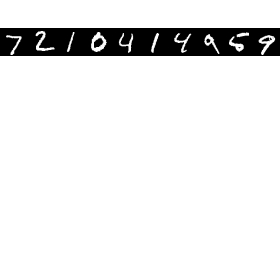
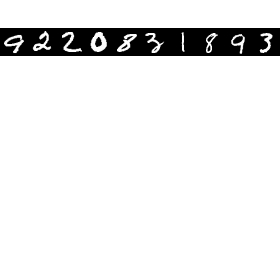
colabコード追加

diff --git a/ch05/colab.py b/ch05/colab.py
@@ -1,0 +1,99 @@
+#========= (誤差逆伝播を使った)学習=============(5.7.4)
+#２層ニューラルネットワークのクラス
+import sys
+sys.path.append('../')
+import numpy as np
+import matplotlib.pyplot as plt
+from dataset.mnist import load_mnist
+from two_layers_net import TwoLayerNet
+from PIL import Image #画像表示にはPILモジュールを使う。
+# ================== ミニバッチ学習の実装 ==================
+(x_train, t_train), (x_test, t_test) = load_mnist(normalize=True, one_hot_label=True)
+#=======================================================
+# ================== ディープラーニングのモデルを定義 ==================
+network = TwoLayerNet(input_size=784, hidden_size=10, output_size=10) #NNのインスタンス生成
+# =======================================================
+#====== ハイパーパラメータ ======
+iters_num = 10000 #勾配によるパラメータ更新回数(iterarion = 繰り返し)
+train_size = x_train.shape[0] #訓練データのサイズはx_trainデータ形状の0次元の数 = 60000枚　x_train.shape = 60000枚 * 784(28*28)ピクセル
+batch_size = 1000 #60000枚のうち100枚ごと学習を行う
+learning_rate = 0.1 #学習率
+train_loss_list = [] #学習ごとの損失関数を格納するためのリスト
+train_acc_list = [] #学習における正確率
+test_acc_list = [] #テストにおける正確率
+#============================
+iter_per_epoch = max(train_size / batch_size, 1) #1エポックあたりの繰り返し数　エポック=訓練データをすべて使い切った回数。60000/100枚 回勾配を行った = １エポック学習を行った。
+# 学習フェーズ
+print("学習開始")
+#何枚の画像で学習したか(画像のシェイプも)
+#開始時間取得
+for i in range (iters_num): #10000回繰り返し
+    #===== ミニバッチの取得 =====
+    batch_mask = np.random.choice(train_size, batch_size) #train_size枚の中からbatch_size枚ランダムで配列で取り出す
+    x_batch = x_train[batch_mask] #100個の入力画像
+    t_batch = t_train[batch_mask] #100個の入力画像に対する正解データ
+    #====== 勾配計算 =====
+    #数値微分
+    # grad = network.numerical_gradient(x_batch, t_batch)
+    #誤差逆伝播法　高速！ 
+    grad = network.gradient(x_batch, t_batch)
+    #====== パラメータ更新 ======
+    # for key in ('W1', 'b1', 'W2', 'b2'):
+    for key in ('W1', 'b1'):
+        network.params[key] -= learning_rate * grad[key]
+    #====== 学習経過の記録 ========
+    # loss = network.loss(x_batch, t_batch)
+    # train_loss_list.append(loss)
+#終了時間取得
+#print(終了ー開始)
+#1エポックごとにテストデータで認識精度を計算　計算に時間がかかるのでざっくりと。
+# if i % iter_per_epoch == 0:
+print("テスト開始")
+#開始時間取得
+test_size = x_test.shape[0]
+batch_mask = np.random.choice(test_size, 10) #train_size枚の中からbatch_size枚ランダムで配列で取り出す
+x_test = x_test[batch_mask] #100個の入力画像
+t_test = t_test[batch_mask] #100個の入力画像に対する正解データ
+test_acc = network.accuracy(x_test, t_test)
+test_acc_list.append(test_acc)
+#終了時間取得
+#print(終了ー開始)
+print("test acc: "+ str(test_acc))
+#============================================
+def ConvertToImg(img):
+    return Image.fromarray(np.uint8(img))
+# MNIST一文字の幅
+chr_w = 28
+# MNIST一文字の高さ
+chr_h = 28
+# 表示する文字数
+num = 20
+# MNISTの文字をPILで１枚の画像に描画する
+canvas = Image.new('RGB', (int(chr_w * num/2), int(chr_h * num/2)), (255, 255, 255))
+# MNISTの文字を読み込んで描画
+i = 0
+(x_train, t_train), (x_test, t_test) = \
+  load_mnist(flatten=True, normalize=False)
+# for x in range( int(num/2) ):
+#     chrImg = ConvertToImg(x_test[i].reshape(chr_w, chr_h))
+#     canvas.paste(chrImg, (chr_w*x, chr_h))
+#     i = i + 1
+for item in batch_mask:
+    chrImg = ConvertToImg(x_test[item].reshape(chr_w, chr_h))
+    canvas.paste(chrImg, (chr_w*i, chr_h))
+    i = i + 1
+canvas.show()
+# 表示した画像をJPEGとして保存
+canvas.save('mnist.jpg', 'JPEG', quality=100, optimize=True)
+print(network.params['W1'].shape)
+for num in range(10):
+  a = []
+  for i in range(784):
+    a.append(network.params['W1'][i][num])
+  #画像の表示
+  a = np.reshape(a, (28, 28)) 
+  plt.imshow(a)
+  plt.show() #使った画像が小さいときはボケて見えるけど今は気にしないで
+  plt.gray()
+  #画像の保存
+  plt.imsave('w1_'+str(num)+'.jpeg', a) #拡張子を.pngとかに変えてもちゃんと保存してくれる。

diff --git a/ch05/test.py b/ch05/test.py
@@ -70,43 +70,57 @@ for i in range (iters_num): #10000回繰り返し
 #1エポックごとにテストデータで認識精度を計算　計算に時間がかかるのでざっくりと。
 # if i % iter_per_epoch == 0:
 print("====== テスト開始 ======")
-#開始時間取得
-test_size = x_test.shape[0]
-batch_mask = np.random.choice(test_size, 10) 
-print("batch_mask",batch_mask)
-#train_size枚の中からbatch_size枚ランダムで配列で取り出す
-x_test = x_test[batch_mask] #100個の入力画像
-t_test = t_test[batch_mask] #100個の入力画像に対する正解データ
-test_acc = network.accuracy(x_test, t_test)
+# #開始時間取得
+#================ 複数枚まとめてテストしたいとき(画像表示の仕方も変更する) ===========
+# test_size = x_test.shape[0]
+# batch_mask = np.random.choice(test_size, 10) #何枚でテストを行いたいか
+# print("batch_mask",batch_mask)
+# #train_size枚の中からbatch_size枚ランダムで配列で取り出す
+# x_test = x_test[batch_mask] #100個の入力画像
+# t_test = t_test[batch_mask] #100個の入力画像に対する正解データ
+# test_acc = network.accuracy(x_test, t_test)
 # test_acc_list.append(test_acc)
+# print(test_acc_list)
+
+
+#============== １枚テストデータを指定してテストしたいとき ===========
+x_test = x_test[[4]] 
+t_test = t_test[[4]] 
+test_acc = network.accuracy(x_test, t_test)
 #終了時間取得
 #print(終了ー開始)
+
+# ===========テスト時の精度 ============
 print("test acc: "+ str(test_acc))
 
 
 #============================================
 
-def ConvertToImg(img):
-    return Image.fromarray(np.uint8(img))
-# MNIST一文字の幅
-chr_w = 28
-# MNIST一文字の高さ
-chr_h = 28
-# 表示する文字数
-num = 20
-# MNISTの文字をPILで１枚の画像に描画する
-canvas = Image.new('RGB', (int(chr_w * num/2), int(chr_h * num/2)), (255, 255, 255))
-# MNISTの文字を読み込んで描画
-i = 0
-(x_train, t_train), (x_test, t_test) = \
-    load_mnist(flatten=True, normalize=False)
+# def ConvertToImg(img):
+#     return Image.fromarray(np.uint8(img))
+# # MNIST一文字の幅
+# chr_w = 28
+# # MNIST一文字の高さ
+# chr_h = 28
+# # 表示する文字数
+# num = 20
+# # MNISTの文字をPILで１枚の画像に描画する
+# canvas = Image.new('RGB', (int(chr_w * num/2), int(chr_h * num/2)), (255, 255, 255))
+# # MNISTの文字を読み込んで描画
+# i = 0
+# #======== 画像表示のために一旦unnormalizedデータを読み込む。(もっといい方法ありますかね) ==========
+# (x_train, t_train), (x_test, t_test) = \
+#     load_mnist(flatten=True, normalize=False)
+# #============ 一枚の画像を出したいとき ===========
+# chrImg = ConvertToImg(x_test[0].reshape(chr_w, chr_h))
+# canvas.paste(chrImg, (chr_w*i, chr_h))
+# #============ 複数ででテストする際の画像表示 ==============
+# # for item in batch_mask:
+# #     chrImg = ConvertToImg(x_test[item].reshape(chr_w, chr_h))
+# #     canvas.paste(chrImg, (chr_w*i, chr_h))
+# #     i = i + 1
 
-for item in batch_mask:
-    chrImg = ConvertToImg(x_test[item].reshape(chr_w, chr_h))
-    canvas.paste(chrImg, (chr_w*i, chr_h))
-    i = i + 1
-
-canvas.show()
+# canvas.show()
 # 表示した画像をJPEGとして保存
 # canvas.save('mnist.jpg', 'JPEG', quality=100, optimize=True)
 

diff --git a/ch03/mnist_image_show.py b/ch03/mnist_image_show.py
@@ -13,12 +13,12 @@ import numpy as np
   （one_hot_label:ラベルをone_hot表現で格納するかどうか。one_hot表現＝正解ラベル１，それ以外０）
 """
 #データの形状
-print("x_train.shape", x_train.shape) #訓練データの入力データ
-print("t_train.shape", x_train.shape) #訓練データの正解データ
-print("x_test.shape", x_test.shape) #テストデータの入力データ
-print("t_test.shape", t_test.shape) #テストデータの正解データ
+# print("x_train.shape", x_train.shape) #訓練データの入力データ
+# print("t_train.shape", x_train.shape) #訓練データの正解データ
+# print("x_test.shape", x_test.shape) #テストデータの入力データ
+# print("t_test.shape", t_test.shape) #テストデータの正解データ
 
-#MNIST画像を表示
+#================= MNIST画像を表示する関数の定義 ==================
 from PIL import Image #画像表示にはPILモジュールを使う。
 
 def img_show(img):
@@ -30,21 +30,25 @@ def img_show(img):
   # print("-------- PIL型 ---------")
   # print(pil_img)
   pil_img.show()
-img = x_test[2001]
+img = x_test[4]
 print(img[0])
 # print("img.shape", img.shape) #784
-#------------------- 正解は？----------------------------
-label = t_test[2001]
+#------------------- 画像のデータをone_hot表現で(28*28)で出す----------------------------
+(x_train, t_train), (x_test, t_test) = \
+  load_mnist(flatten=True, normalize=True)
+
+normalized_img = x_test[4]
+print(normalized_img[0])
 k = 0
 aaa = []
 for i in range(28):
   for j in range(28):
-    aaa.append(img[k])
+    aaa.append(normalized_img[k])
     k += 1
   print(aaa)
   aaa = []
-# print("正解", label) #正解のデータ 5
-#-------------------変形してimg.show()に入れて実行 --------------------
-img = img.reshape(28, 28)
+# print("正解", t_test[0]) #正解のデータ 5
+#-------------------画像の出力 --------------------
+img = img.reshape(28, 28) #画像のサイズ(28*28)
 # print("img.shape2", img.shape) #28*28
 img_show(img)

diff --git a/ch05/two_layers_net.py b/ch05/two_layers_net.py
@@ -8,10 +8,10 @@ from collections import OrderedDict
 #------------- 誤差逆伝播に対応したNNの実装 ------------------
 class TwoLayerNet:
     def __init__(self, input_size, hidden_size, output_size, weight_init_std=0.01): 
-        print("------モデルの形------")
-        print("入力数：", input_size)
-        print("中間層：", hidden_size)
-        print("出力層：", output_size)
+        # print("------モデルの形------")
+        # print("入力数：", input_size)
+        # print("中間層：", hidden_size)
+        # print("出力層：", output_size)
         #__init__クラスの初期化メソッド。input_size=784,output_size=10クラス,hiddenは適当な数を設定
         self.params = {} #ディクショナリ変数。それぞれNumpy配列で格納。
         self.params['W1'] = weight_init_std * np.random.randn(input_size, hidden_size) #random.randn = 形状が(784*50)の(0以上1未満の乱数)

diff --git a/ch03/neuralnet_mnist.py b/ch03/neuralnet_mnist.py
@@ -46,11 +46,14 @@ def predict(network, x):
 #=========== 実行　＝＝＝＝＝＝＝＝＝＝＝
 network = init_network()
 #------- 入力するテストデータ ------------------------
-# print("入力データ", x_test[0]) #784
+print("============ 入力データ =============") #784
+print(x_test[0])
 #------- 正解は？ ---------------------------
-# print("正解", t_test[0]) 
+print("============= 正解 ===============") 
+print(t_test[0])
 #------- 推論結果 --------------
-# print(predict(network, x_test)) 
+print("============ 予測結果 ============")
+print(predict(network, x_test[0])) 
 
 #=========== テストデータ全てでの性能 ==========
 accuracy_cnt = 0
